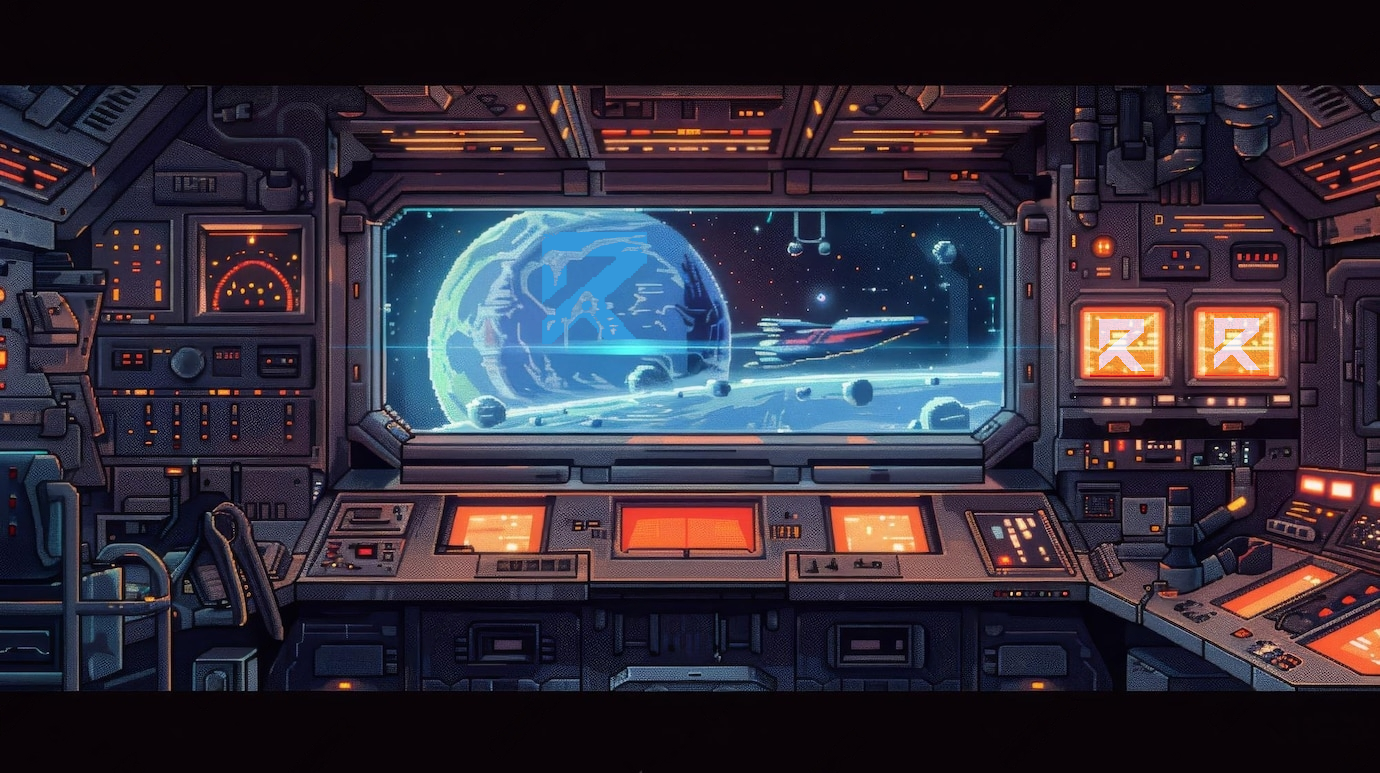
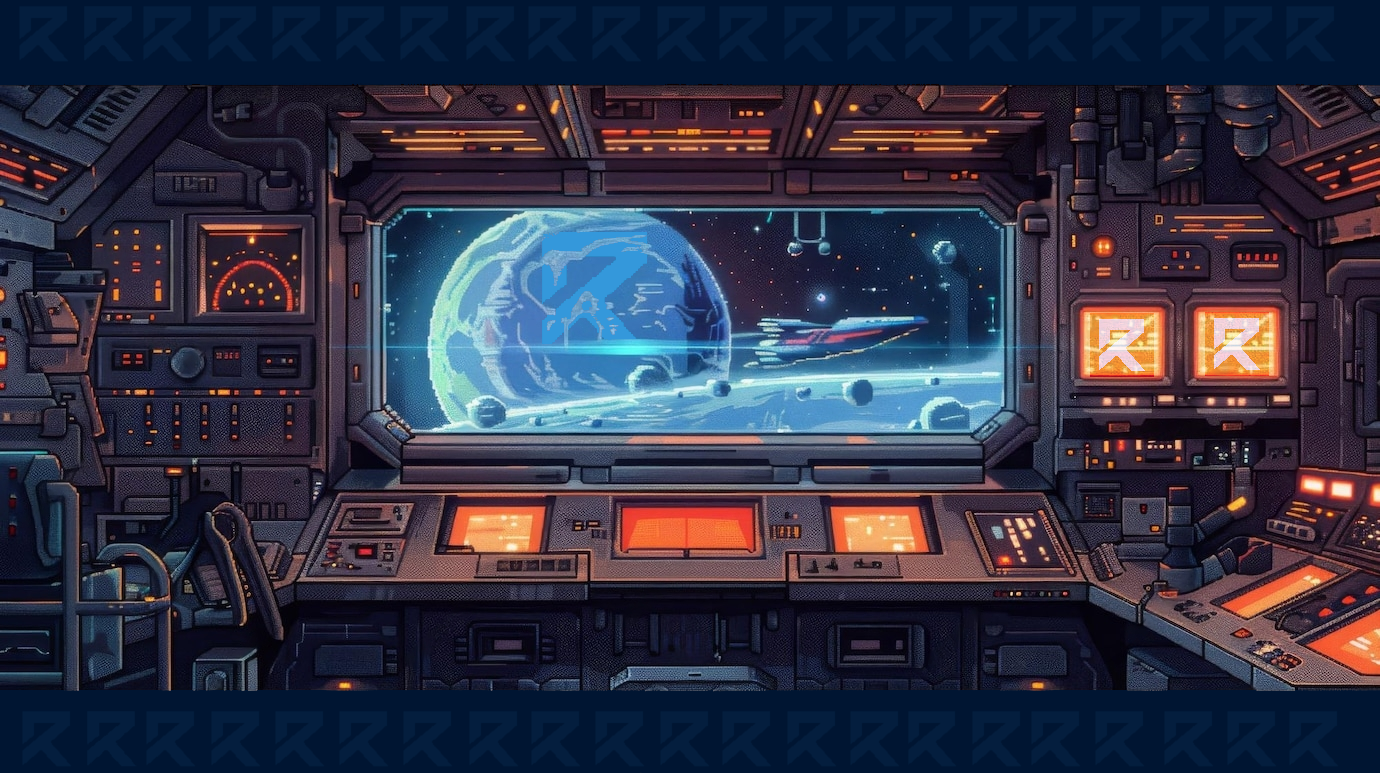
Imagen nivel1

Changed region(s): [[0.0, 0.8693, 1.0, 1.0], [0.0, 0.0, 1.0, 0.1242]]

diff --git a/scenas/scenaJuego.js b/scenas/scenaJuego.js
@@ -17,6 +17,7 @@ class scenaJuego extends Phaser.Scene {
     this.load.image("estrellas", "assets/scenaJuego/estrellas.png");
     this.load.image("fondo1", "assets/scenaJuego/a.jpg");
     this.load.image("bala", "assets/scenaJuego/bala.png");
+    this.load.image("nivel", "assets/scenaJuego/nivel1.jpg");
     this.load.spritesheet("enemigo", "assets/scenaJuego/enemigo.png", {
       frameWidth: 32,
       frameHeight: 32,
@@ -29,10 +30,9 @@ class scenaJuego extends Phaser.Scene {
   }
 
   create() {
-    
-   this.isMobile = this.sys.game.device.os.android || this.sys.game.device.os.iOS;
+    this.isMobile =
+      this.sys.game.device.os.android || this.sys.game.device.os.iOS;
     const { width, height } = this.scale.displaySize;
-
 
     // Ajustar el fondo para que ocupe toda la pantalla
     this.fondo = this.add.image(0, 0, "fondo1").setOrigin(0, 0);
@@ -40,6 +40,12 @@ class scenaJuego extends Phaser.Scene {
       this.scale.width / this.fondo.width,
       this.scale.height / this.fondo.height
     );
+
+    // Añadir la imagen nivel1.jpg en la esquina superior derecha
+    const nivel1Image = this.add
+      .image(900, 20, "nivel")
+      .setScale(0.2)
+      .setDepth(10);
 
     // Añadir elementos del juego
     this.background = this.add.image(500, 350, "background").setScale(0.3);

diff --git a/scenas/scenaRompecabezas.js b/scenas/scenaRompecabezas.js
@@ -15,6 +15,7 @@ class scenaRompecabezas extends Phaser.Scene {
     this.load.image("brazosI", "assets/scenaRompecabezas/brazoss.png");
     this.load.audio("sonidoCorrecto", "assets/scenaRompecabezas/tornillos.mp3");
     this.load.audio("sonidoIncorrecto", "assets/scenaRompecabezas/error.mp3");
+    this.load.image("nivel", "assets/scenaRompecabezas/nivel1.jpg");
   }
 
   create() {
@@ -28,6 +29,11 @@ class scenaRompecabezas extends Phaser.Scene {
     const fondo = this.add.image(0, 0, "fondo3").setOrigin(0, 0);
     fondo.displayWidth = screenWidth;
     fondo.displayHeight = screenHeight;
+
+    // Agregar la imagen nivel1.jpg en la esquina superior derecha
+    const nivel1Image = this.add.image(screenWidth - 10, 10, "nivel"); // Posición en la esquina superior derecha
+    nivel1Image.setOrigin(1, 0); // Ajustar el origen a la esquina superior derecha
+    nivel1Image.setScale(0.2 * scaleFactor); // Ajustar la escala en función del factor de escala
 
     // Texto para mostrar la pieza seleccionada
     this.textoSeleccionado = this.add
@@ -75,6 +81,7 @@ class scenaRompecabezas extends Phaser.Scene {
       },
     };
 
+    // Agregar imágenes de brazos
     this.add
       .image(100 * scaleFactor, 210 * scaleFactor, "brazos")
       .setOrigin(0, 0);

diff --git a/scenas/scenaIntro.js b/scenas/scenaIntro.js
@@ -7,6 +7,7 @@ class scenaIntro extends Phaser.Scene {
     this.load.image("fondo2", "assets/scenaIntro/fondo.png");
     this.load.image("capitan", "assets/scenaIntro/capitanRobo.png");
     this.load.audio("teclado", "assets/scenaIntro/teclado.mp3");
+    this.load.image("nivel", "assets/scenaIntro/nivel1.jpg");
   }
 
   create() {
@@ -17,6 +18,10 @@ class scenaIntro extends Phaser.Scene {
     fondo.displayHeight = this.scale.height;
 
     this.add.image(800, 320, "capitan").setScale(0.5);
+
+    const nivel1Image = this.add.image(width - 10, 10, "nivel"); // Posición en la esquina superior derecha
+    nivel1Image.setOrigin(5, 0); // Ajustar el origen a la esquina superior derecha
+    nivel1Image.setScale(0.2); // Ajustar la escala si es necesario
 
     this.dialogues = [
       "!Antes de comenzar el nivel, los jugadores recibirán una breve explicación interactiva sobre los conceptos básicos de robótica y programación:",

diff --git a/index.html b/index.html
@@ -16,7 +16,7 @@
             display: grid;
             place-items: center;
             height: 100vh;
-            background: rgb(0, 0, 0);
+            background: rgb(0, 21, 50);
         }
     </style>
     <script src="//cdn.jsdelivr.net/npm/phaser@3.86.0/dist/phaser.js"></script>

diff --git a/game.js b/game.js
@@ -18,7 +18,7 @@ var config = {
     antialias: false, // Asegúrate de suavizar el texto
   },
 
-  scene: [scenaPrincipal, scenaIntro, scenaRompecabezas, scenaJuego],
+   scene: [scenaPrincipal, scenaIntro, scenaRompecabezas, scenaJuego],
 };
 
 var game = new Phaser.Game(config);
